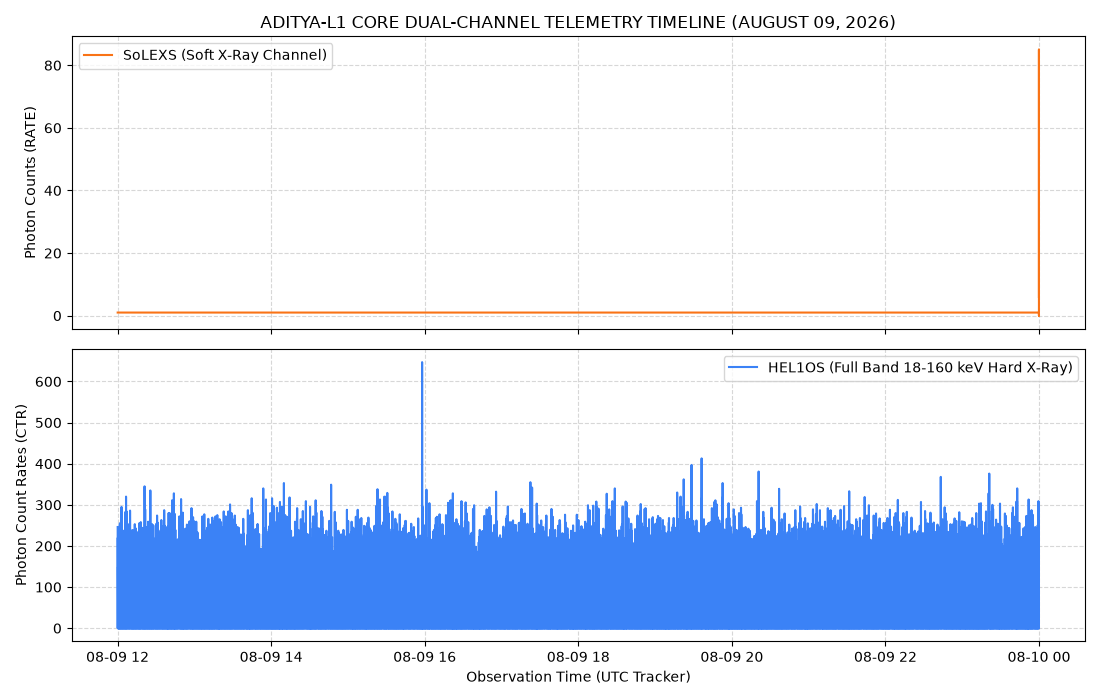
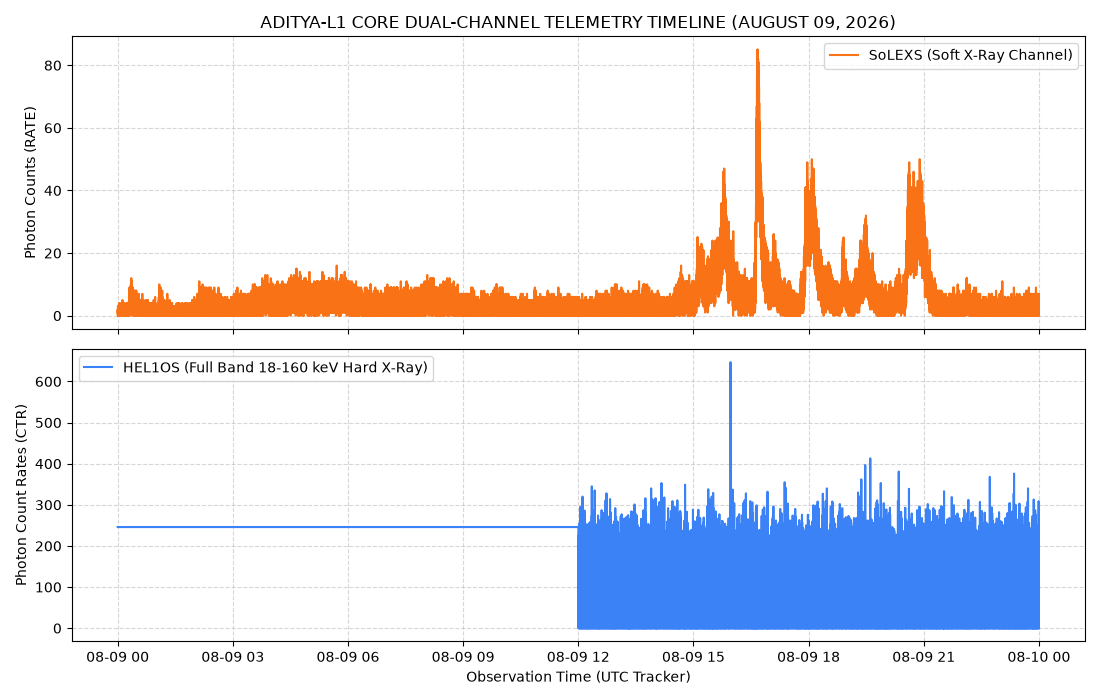
fixes in day 8 plan about timestamp

diff --git a/ml/read_fits.py b/ml/read_fits.py
@@ -10,17 +10,18 @@ def extract_solexs_fits(file_path):
         # Access Extension 1 ('RATE') directly
         data = hdul[1].data
         
-        # Extract headers. SoLEXS 'TIME' column is seconds from an observation reference time.
-        # We will keep raw TIME for merging or convert using the header reference epoch.
+        # SoLEXS 'TIME' column is UNIX epoch seconds
         time_array = np.array(data['TIME'], dtype=float)
         counts_array = np.array(data['COUNTS'], dtype=float)
         
-        # Convert relative observation seconds into structural timeline indexes
         df = pd.DataFrame({
             'time_seconds': time_array,
             'solexs_flux': counts_array
         })
-        return df.sort_values('time_seconds').reset_index(drop=True)
+        # Convert UNIX epoch seconds into datetime UTC timestamps matching HEL1OS
+        df['timestamp'] = pd.to_datetime(df['time_seconds'], unit='s')
+        
+        return df[['time_seconds', 'timestamp', 'solexs_flux']].sort_values('time_seconds').reset_index(drop=True)
 
 def extract_hel1os_fits(file_path):
     print(f"Parsing HEL1OS Level-1 FITS: {os.path.basename(file_path)}")
@@ -39,9 +40,8 @@ def extract_hel1os_fits(file_path):
             'hel1os_flux': ctr_rate
         })
         
-        # Strip timezones and compute relative second offsets matching today's target date base
         df['timestamp'] = df['timestamp'].dt.tz_localize(None)
-        start_time = df['timestamp'].min()
-        df['time_seconds'] = (df['timestamp'] - start_time).dt.total_seconds()
+        # Convert timestamp to absolute UNIX epoch seconds (keeping it absolute, consistent with SoLEXS)
+        df['time_seconds'] = (df['timestamp'] - pd.Timestamp("1970-01-01")).dt.total_seconds()
         
         return df[['time_seconds', 'timestamp', 'hel1os_flux']].sort_values('time_seconds').reset_index(drop=True)

diff --git a/ml/sync_aditya.py b/ml/sync_aditya.py
@@ -20,16 +20,17 @@ def run_synchronization_pipeline():
 
     print("\nSynchronizing dual instruments along relative second timeline tracks...")
     
-    # Merge timelines on matching time seconds
+    # Merge timelines on matching time seconds and reconstructed timestamps
     # Rounding seconds to the nearest whole integer ensures perfect alignment points
     solexs_df['time_seconds'] = solexs_df['time_seconds'].round()
     hel1os_df['time_seconds'] = hel1os_df['time_seconds'].round()
     
-    synced_df = pd.merge(solexs_df, hel1os_df, on='time_seconds', how='outer')
-    synced_df = synced_df.sort_values('time_seconds').reset_index(drop=True)
+    # Re-calculate clean timestamps using rounded time_seconds to prevent sub-second mismatch
+    solexs_df['timestamp'] = pd.to_datetime(solexs_df['time_seconds'], unit='s')
+    hel1os_df['timestamp'] = pd.to_datetime(hel1os_df['time_seconds'], unit='s')
     
-    # Handle the master datetime column backfilling
-    synced_df['timestamp'] = synced_df['timestamp'].ffill().bfill()
+    synced_df = pd.merge(solexs_df, hel1os_df, on=['time_seconds', 'timestamp'], how='outer')
+    synced_df = synced_df.sort_values('time_seconds').reset_index(drop=True)
     
     print("Applying astronomical interpolation to resolve sensor gaps...")
     synced_df['solexs_flux'] = synced_df['solexs_flux'].interpolate(method='linear').ffill().bfill()
